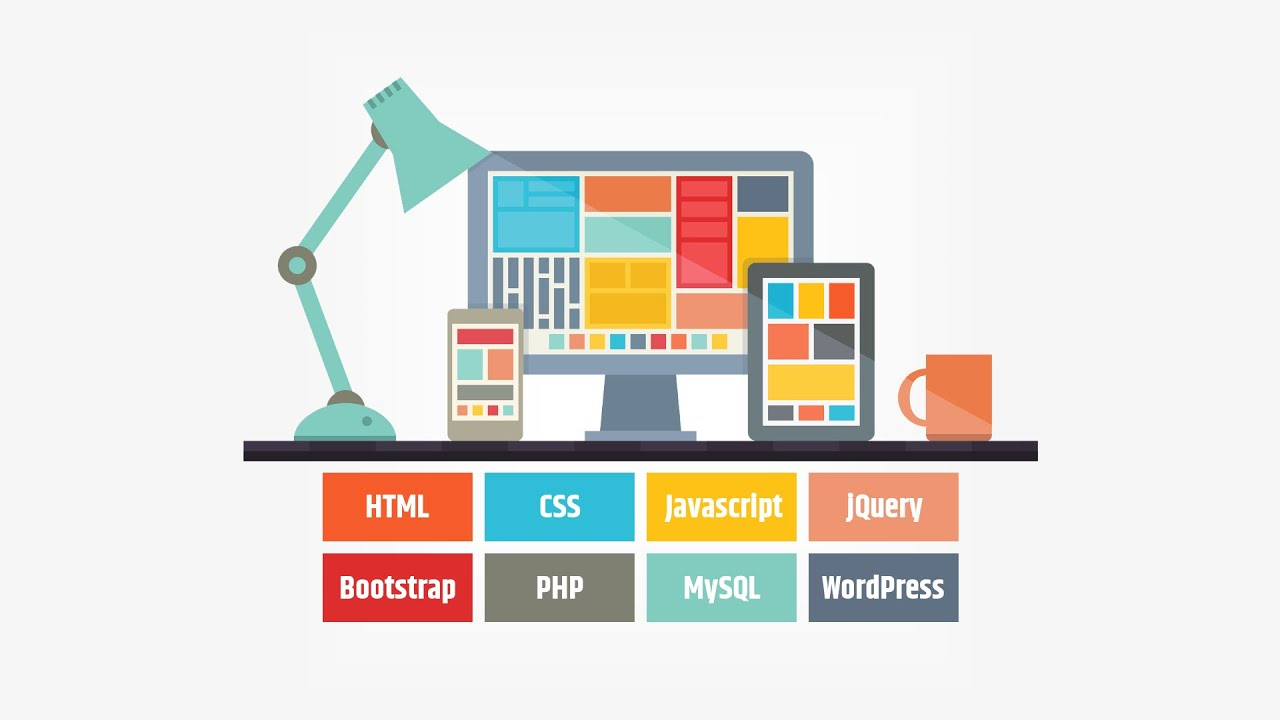
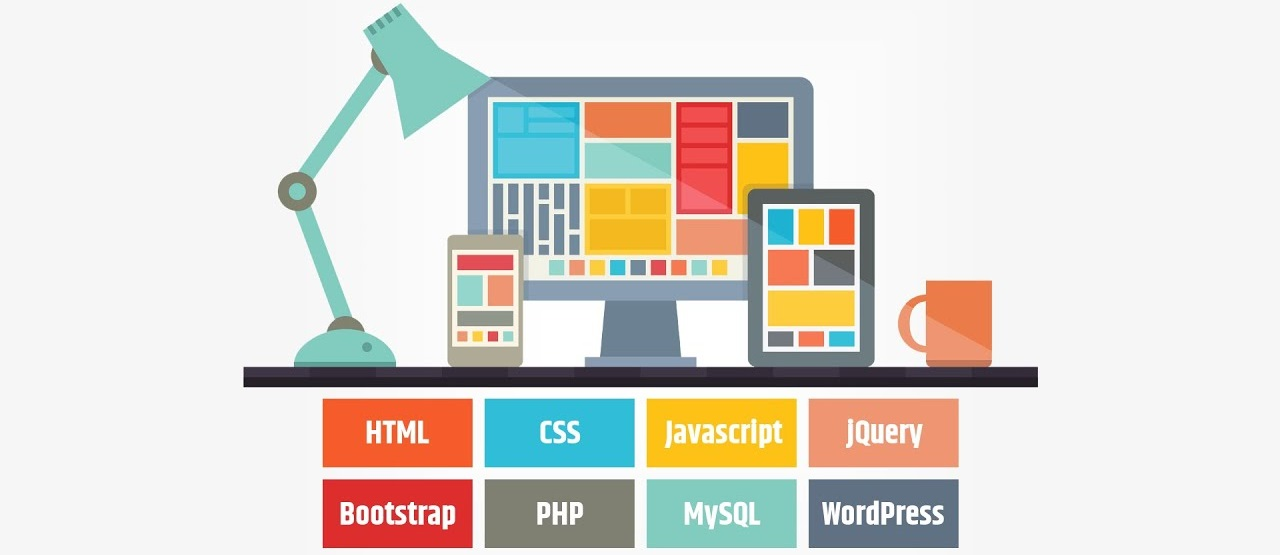
retirada do br antes e após a imagem

Changed region(s): [[0.1875, 0.0, 0.8125, 1.0], [0.5938, 0.4288, 0.6562, 0.4595], [0.4062, 0.4288, 0.4375, 0.4595]]

diff --git a/README.md b/README.md
@@ -1,8 +1,7 @@
 ## Hi, I'm Zenilton Brito
 <hr>
-<br>
 <img align="center" alt="IMG" src="./img/front1.jpg">
-<br><br>
+<br>
 
 ### Main Skills:
 
